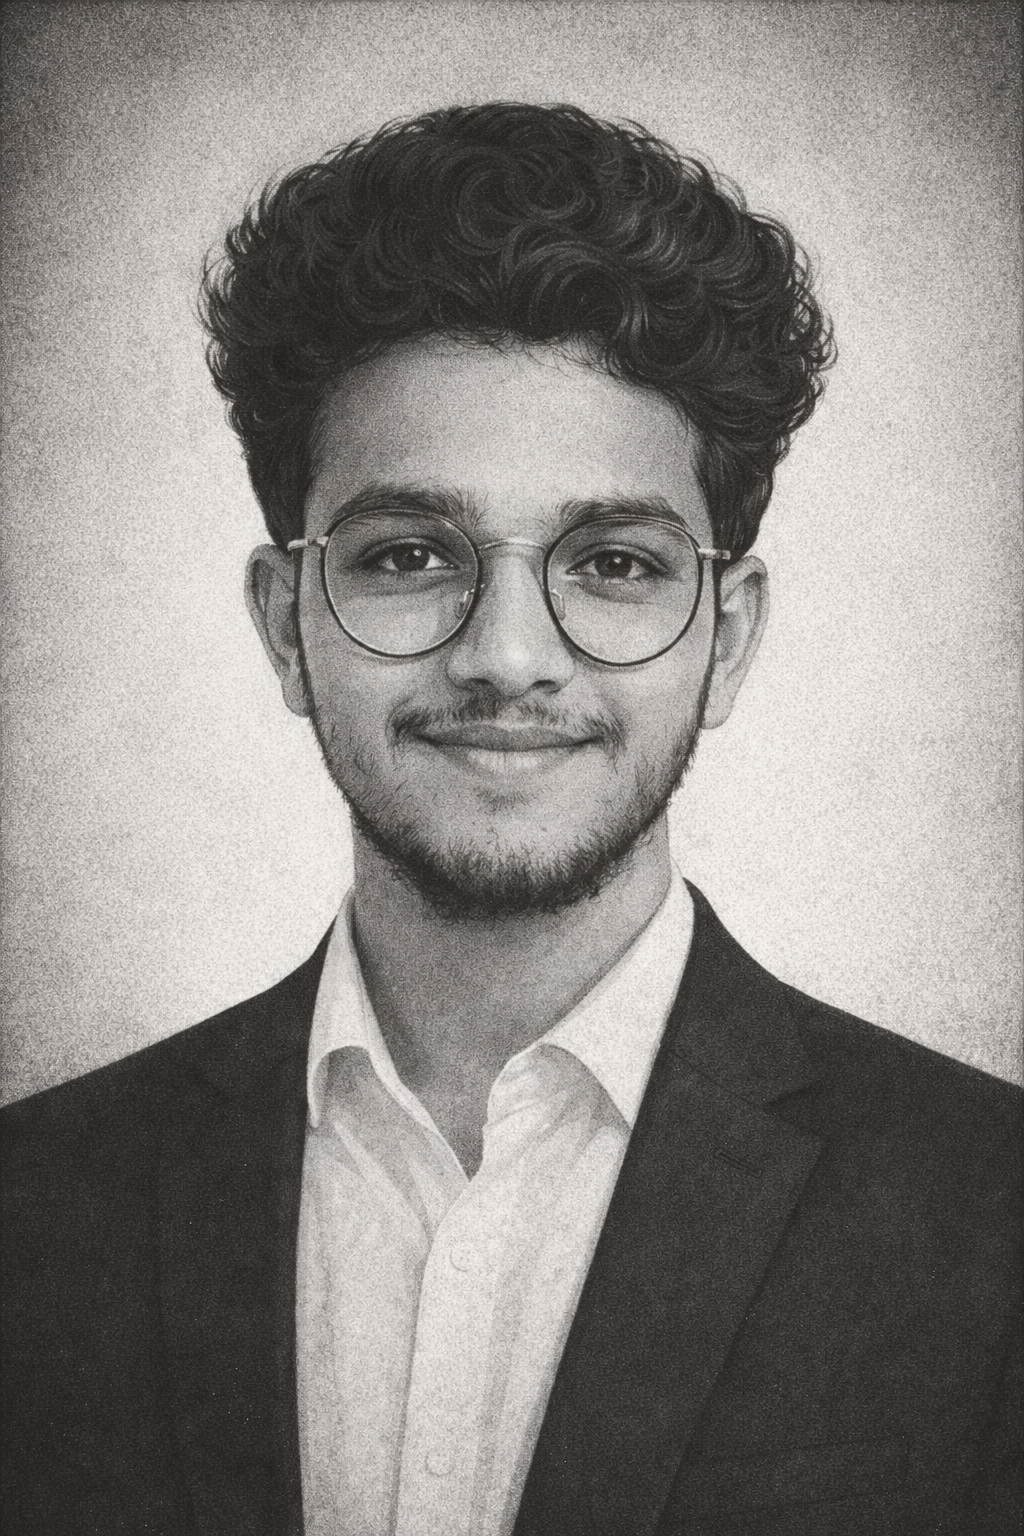
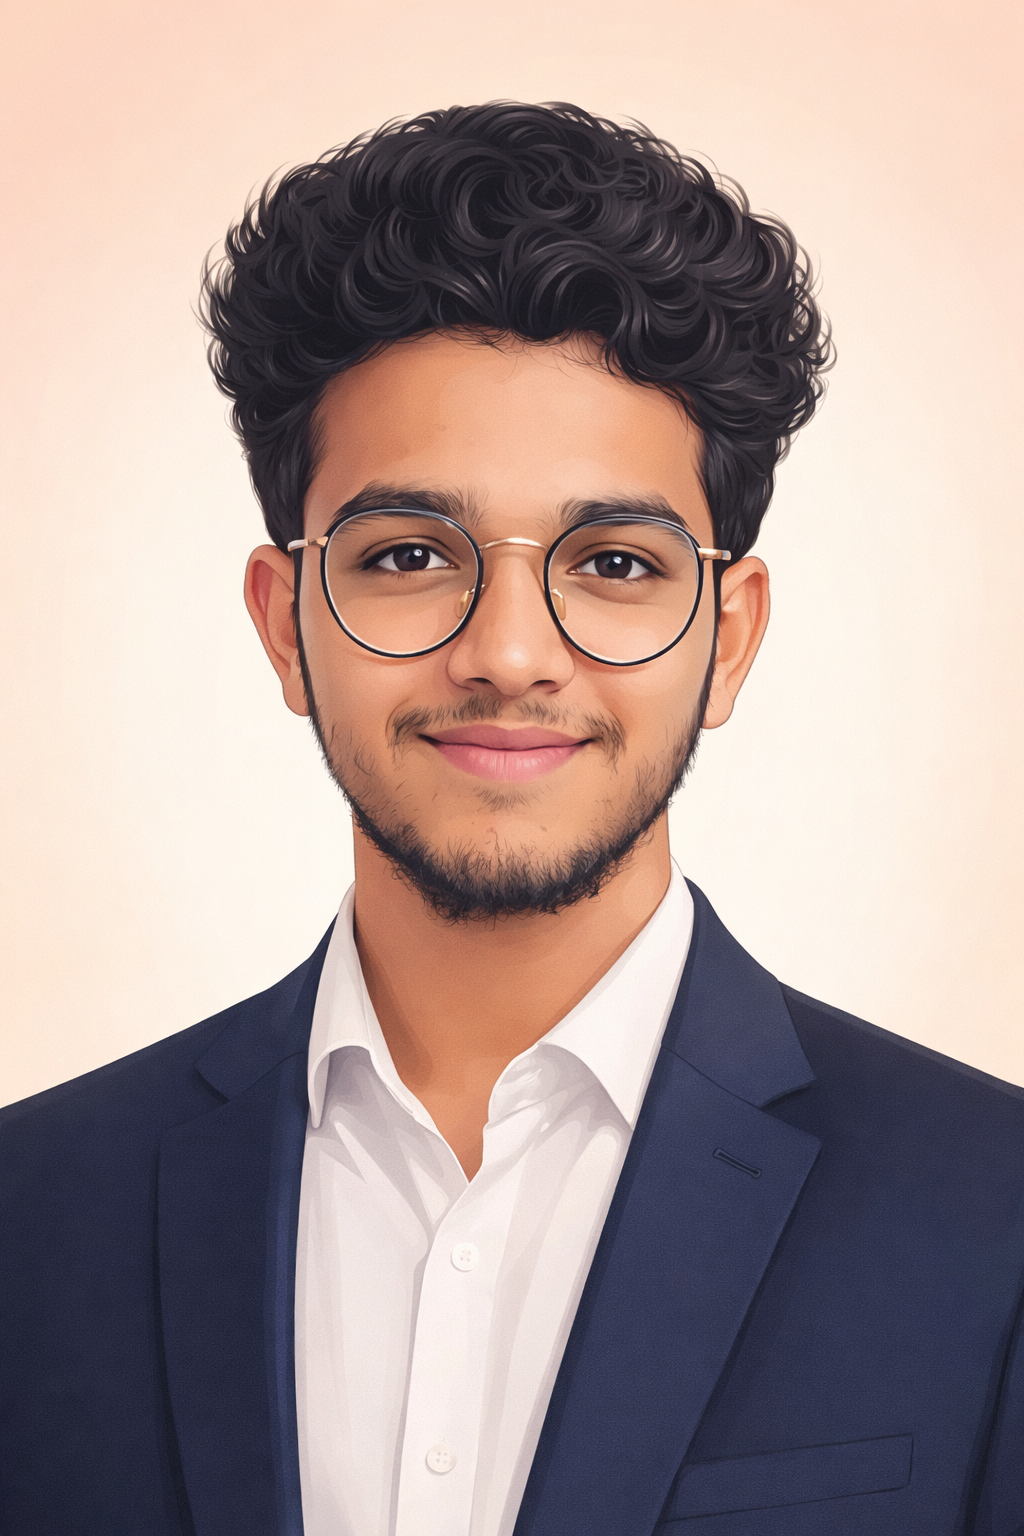
feat: Add About section component with personal image and scroll-triggered GSAP animations.

diff --git a/src/components/About.jsx b/src/components/About.jsx
@@ -109,7 +109,7 @@ const About = () => {
                 <img 
                   alt="Portrait of Atharva Baodhankar" 
                   className="w-full h-full object-cover filter grayscale contrast-[1.05] brightness-105 group-hover:grayscale-0 group-hover:scale-105 transition-all duration-1000 ease-expo-out"
-                  src="/src/assets/imgs/aboutme-img.jpeg"
+                  src="/src/assets/imgs/me.png"
                 />
                 <div className="absolute inset-0 bg-gradient-to-t from-black/20 to-transparent opacity-0 group-hover:opacity-100 transition-opacity duration-500"></div>
               </div>
@@ -126,51 +126,67 @@ const About = () => {
             >
               I'm Atharva Baodhankar — a{' '}
               <span className="font-normal relative inline-block">
-                Web Engineer
+                Web & Blockchain Engineer
                 <svg className="absolute w-full h-3 -bottom-1 left-0 text-gray-200 -z-10" preserveAspectRatio="none" viewBox="0 0 100 20">
                   <path d="M0 15 Q 50 25 100 15" fill="none" stroke="currentColor" strokeWidth="8"></path>
                 </svg>
               </span>{' '}
-              focused on crafting high-performance, animation-rich, and system-driven web applications.
+              focused on building scalable, performance-driven, and animation-rich digital systems.
             </h2>
             
             <div className="space-y-6 text-lg md:text-xl text-gray-500 font-light leading-relaxed max-w-2xl" style={{ fontFamily: "'Inter', sans-serif" }}>
               <p>
                 From{' '}
-                <span className="text-black font-normal underline-anim">interactive frontend experiences</span>{' '}
-                to blockchain-backed systems and{' '}
-                <span className="text-black font-normal underline-anim">AI-powered tools</span>, 
-                I build products that feel modern, fast, and intentional.
+                <span className="text-black font-normal underline-anim">modern MERN-based web platforms</span>{' '}
+                to{' '}
+                <span className="text-black font-normal underline-anim">Web3 & blockchain-backed applications</span>,{' '}
+                I design and engineer products that feel fast, intuitive, and intentionally crafted.
               </p>
+
               <p>
-                I enjoy working{' '}
-                <span className="italic font-display font-medium text-xl text-black" style={{ fontFamily: "'Bodoni Moda', serif" }}>close to the metal</span>{' '}
-                — understanding how things work, optimizing flows, and shipping{' '}
-                <span className="text-black font-normal underline-anim">production-grade systems</span>.
+                I work{' '}
+                <span className="italic font-display font-medium text-xl text-black" style={{ fontFamily: "'Bodoni Moda', serif" }}>
+                  close to the system
+                </span>{' '}
+                — thinking in terms of architecture, data flow, and long-term scalability — while still obsessing over
+                <span className="text-black font-normal underline-anim"> motion, performance, and user experience</span>.
+              </p>
+
+              <p>
+                Currently exploring{' '}
+                <span className="text-black font-normal underline-anim">blockchain infrastructure, account abstraction,</span>{' '}
+                and{' '}
+                <span className="text-black font-normal underline-anim">AI-assisted developer workflows</span>{' '}
+                to build smarter, future-ready products.
               </p>
             </div>
           </div>
 
           {/* Skill tags */}
           <div className="flex flex-wrap gap-3" style={{ fontFamily: "'Inter', sans-serif" }}>
-            <span className="group px-6 py-3 rounded-full bg-black text-white text-sm font-medium tracking-wide border border-transparent hover:scale-105 transition-transform duration-500 cursor-default shadow-lg shadow-black/10">
-              Frontend Engineering
+            <span className="px-6 py-3 rounded-full bg-gray-100 text-gray-600 hover:bg-white border border-transparent hover:border-gray-300 text-sm font-medium tracking-wide transition-all duration-300 cursor-default">
+              MERN Stack Engineering
             </span>
-            <span className="px-6 py-3 rounded-full bg-gray-100 text-gray-600 border border-transparent hover:border-gray-300 text-sm font-medium tracking-wide transition-all duration-300 cursor-default hover:bg-white">
-              System Architecture
+            <span className="px-6 py-3 rounded-full bg-gray-100 text-gray-600 hover:bg-white border border-transparent hover:border-gray-300 text-sm font-medium tracking-wide transition-all duration-300 cursor-default">
+              Web3 & Blockchain Systems
             </span>
-            <span className="px-6 py-3 rounded-full bg-gray-100 text-gray-600 border border-transparent hover:border-gray-300 text-sm font-medium tracking-wide transition-all duration-300 cursor-default hover:bg-white">
-              Performance Optimization
+            <span className="px-6 py-3 rounded-full bg-gray-100 text-gray-600 hover:bg-white border border-transparent hover:border-gray-300 text-sm font-medium tracking-wide transition-all duration-300 cursor-default">
+              System Design & Architecture
             </span>
-            <span className="px-6 py-3 rounded-full bg-gray-100 text-gray-600 border border-transparent hover:border-gray-300 text-sm font-medium tracking-wide transition-all duration-300 cursor-default hover:bg-white">
-              WebGL & Animations
+            <span className="px-6 py-3 rounded-full bg-gray-100 text-gray-600 hover:bg-white border border-transparent hover:border-gray-300 text-sm font-medium tracking-wide transition-all duration-300 cursor-default">
+              High-Performance UI & Animations
+            </span>
+            <span className="px-6 py-3 rounded-full bg-gray-100 text-gray-600 hover:bg-white border border-transparent hover:border-gray-300 text-sm font-medium tracking-wide transition-all duration-300 cursor-default">
+              Continuous Learning & Experimentation
             </span>
           </div>
 
           {/* Location info */}
           <div className="pt-8 opacity-40 flex items-center gap-4" style={{ fontFamily: "'Inter', sans-serif" }}>
             <div className="h-px w-16 bg-current"></div>
-            <p className="text-xs uppercase tracking-[0.2em] font-medium">Based in India • Available Worldwide</p>
+            <p className="text-xs uppercase tracking-[0.2em] font-medium">
+              Based in India • Building for the Web, Globally
+            </p>
           </div>
         </div>
       </div>
